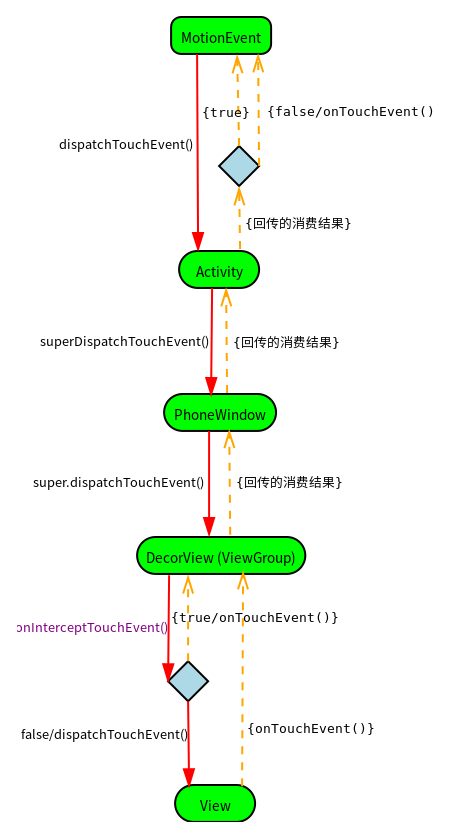
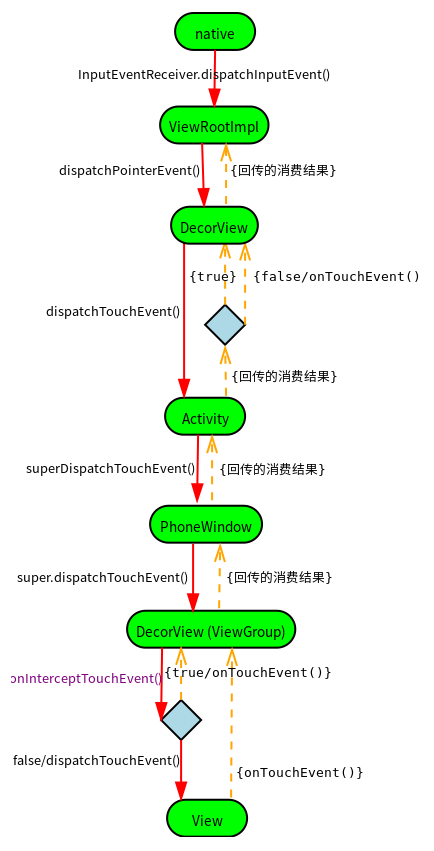
更新事件分发

Changed region(s): [[0.03, 0.0, 0.9585, 0.9952], [0.8088, 0.9019, 0.8387, 0.933], [0.7788, 0.8708, 0.8088, 0.9019]]

diff --git a/EventDispatch.md b/EventDispatch.md
@@ -213,6 +213,8 @@ public boolean onInterceptTouchEvent(MotionEvent ev) {...}
 拦截，顾名思义，截断事件的传递过程，当事件被拦截后，无法再向下分发，由于拦截的方法onInterceptTouchEvent()仅存于ViewGroup中，因此我们只会在ViewGroup中分析拦截过程。
 
 ### 3. Activity中的流程
+
+我们先从Activity的入口——dispatchTouchEvent()开始分析，至于这个入口又是谁在调用，我们调一下顺序，放在后面来介绍。（因为一般情况下，我们只需要研究从Activity这里开始的内容，至于事件的来源，涉及到native部分）
 ```java
 /**
  * 分发
@@ -502,7 +504,363 @@ View的情况比较简单，很容易理解：
 - 如果当前View可点击，就处理事件，并返回true作为消费结果。
 
 ---
-### 4. 事件分发整体流程
+### 6. Activity中事件来源
+
+Activity中事件来源，也就是谁调用了dispatchTouchEvent()，我们查看方法栈，发现在DecorView中：
+```java
+@Override
+public boolean dispatchTouchEvent(MotionEvent ev) {
+    // ...
+    final Window.Callback cb = mWindow.getCallback();
+    return cb != null && !mWindow.isDestroyed() && mFeatureId < 0
+            ? cb.dispatchTouchEvent(ev) : super.dispatchTouchEvent(ev);
+}
+```
+
+Activity这个类是实现了Window.Callback接口的，因此事件从这里分发到Activity的dispatchTouchEvent()。接下来我们先看看这个mWindow的来源，再去追踪事件的来源：
+```java
+void setWindow(PhoneWindow phoneWindow) {
+    mWindow = phoneWindow;
+    Context context = getContext();
+    if (context instanceof DecorContext) {
+        DecorContext decorContext = (DecorContext) context;
+        decorContext.setPhoneWindow(mWindow);
+    }
+}
+```
+
+而这个setWindow()有两处调用：
+
+![](https://raw.githubusercontent.com/universezy/TrilogyOfViewOnAndroid/master/image/EventDispatch.png)
+
+实际上，这两处最后都是走到同一个方法中：
+```java
+private void installDecor() {
+    // ...
+    if (mDecor == null) {
+        // 这里第一处调用
+        mDecor = generateDecor(-1);
+       // ...
+    } else {
+        // 这是第二处调用
+        mDecor.setWindow(this);
+    }
+}
+
+protected DecorView generateDecor(int featureId) {
+    // ...
+    return new DecorView(context, featureId, this, getAttributes());
+}
+
+/**
+ * 位于DecorView类中的构造方法
+ */
+DecorView(Context context, int featureId, PhoneWindow window,
+    WindowManager.LayoutParams params) {
+    // ...
+    setWindow(window);
+    // ...
+}
+```
+
+继续，追踪installDecor()的调用：
+
+![](https://raw.githubusercontent.com/universezy/TrilogyOfViewOnAndroid/master/image/installDecor.png)
+
+这个方法有好几处调用，我们发现了其中有熟悉的方法——installDecor()，这是我们在Activity的onCreate()中用来加载xml文件，即ViewGroup的方法，于是我们查看它在Activity中的调用：
+```java
+public void setContentView(@LayoutRes int layoutResID) {
+    getWindow().setContentView(layoutResID);
+    initWindowDecorActionBar();
+}
+```
+
+好了，到了这里我们不再继续往下找，因为后面涉及到Activity加载机制，为了不偏离本文主题，将在另外的文章中学习到。
+
+至此我们来理一理：
+
+(1) Activity在onCreate()中调用setContentView()，Window对象也调用setContentView()；
+(2) Window的setContentView()中，对DecorView实例化；
+(3) 当事件分发到DecorView时，DecorView通过构造方法传进来的Window对象的回调，将事件又分发到Activity的dispatchTouchEvent()；
+
+现在，我们开始分析，是谁将事件分发到DecorView的，由于dispatchTouchEvent()的调用者太多，我们很难下手，因此我们改变一下思路，放弃逆推，选择顺推试试。从入参MotionEvent下手，并且尽可能朝着我们熟悉的这些组件去推理。
+
+MotionEvent继承于InputEvent，根据依赖倒置原则，我们去追踪InputEvent在哪儿产生，发现一个叫InputEventReceiver的类，这个类中有一个方法：
+```java
+// Called from native code.
+@SuppressWarnings("unused")
+private void dispatchInputEvent(int seq, InputEvent event, int displayId) {
+    mSeqMap.put(event.getSequenceNumber(), seq);
+    onInputEvent(event, displayId);
+}
+```
+
+由native层调用，当输入事件产生并分发到这里后，调用onInputEvent()，我们再看这个onInputEvent()：
+
+![](https://raw.githubusercontent.com/universezy/TrilogyOfViewOnAndroid/master/image/onInputEvent.png)
+
+里面一处调用位于ViewRootImpl：WindowInputEventReceiver，然后到ViewRootImpl中看看：
+```java
+final class WindowInputEventReceiver extends InputEventReceiver {
+    @Override
+    public void onInputEvent(InputEvent event, int displayId) {
+        // ...
+        // 将输入事件入列
+        enqueueInputEvent(event, this, 0, true);
+    }
+}
+
+void enqueueInputEvent(InputEvent event,
+            InputEventReceiver receiver, int flags, boolean processImmediately) {
+    // ...
+    // 如果是立即执行
+    if (processImmediately) {
+        // 处理输入事件
+        doProcessInputEvents();
+    } else {
+        // 调度输入事件
+        scheduleProcessInputEvents();
+    }
+}
+
+void doProcessInputEvents() {
+    // ...
+    // 传递输入事件
+    deliverInputEvent(q);
+    // ...
+}
+
+private void deliverInputEvent(QueuedInputEvent q) {
+    // ...
+    InputStage stage;
+    if (q.shouldSendToSynthesizer()) {
+        stage = mSyntheticInputStage;
+    } else {
+        stage = q.shouldSkipIme() ? mFirstPostImeInputStage : mFirstInputStage;
+    }
+    // ...
+    if (stage != null) {
+        handleWindowFocusChanged();
+        // 传递有序的输入事件
+        stage.deliver(q);
+    } else {
+        finishInputEvent(q);
+    }
+}
+```
+
+此时我们得去追踪这个InputStage对象具体是哪一个实例，我们去查看这三个实例的初始化，发现是在同一个地方：
+```java
+public void setView(View view, WindowManager.LayoutParams attrs, View panelParentView) {
+    synchronized (this) {
+        if (mView == null) {
+            // ...
+            // Set up the input pipeline.
+            CharSequence counterSuffix = attrs.getTitle();
+            mSyntheticInputStage = new SyntheticInputStage();
+            InputStage viewPostImeStage = new ViewPostImeInputStage(mSyntheticInputStage);
+            InputStage nativePostImeStage = new NativePostImeInputStage(viewPostImeStage,
+                    "aq:native-post-ime:" + counterSuffix);
+            InputStage earlyPostImeStage = new EarlyPostImeInputStage(nativePostImeStage);
+            InputStage imeStage = new ImeInputStage(earlyPostImeStage,
+                    "aq:ime:" + counterSuffix);
+            InputStage viewPreImeStage = new ViewPreImeInputStage(imeStage);
+            InputStage nativePreImeStage = new NativePreImeInputStage(viewPreImeStage,
+                    "aq:native-pre-ime:" + counterSuffix);
+
+            mFirstInputStage = nativePreImeStage;
+            mFirstPostImeInputStage = earlyPostImeStage;
+        }
+    }
+}
+```
+
+这是什么操作？不明觉厉，这几个类都继承于InputStage，那就看看InputStage里面：
+```java
+/**
+ * 用于实现处理输入事件的责任链阶段的基类。
+ * 事件通过deliver()传递到该阶段，在此，可选择完成事件或者传递到下个阶段。
+ */
+abstract class InputStage {
+    private final InputStage mNext;
+
+    protected static final int FORWARD = 0;
+    protected static final int FINISH_HANDLED = 1;
+    protected static final int FINISH_NOT_HANDLED = 2;
+
+    /**
+     * 创建一个输入事件阶段
+     * @param next 下个阶段
+     */
+    public InputStage(InputStage next) {
+        mNext = next;
+    }
+
+    /**
+     * 传递一个事件来处理
+     */
+    public final void deliver(QueuedInputEvent q) {
+        if ((q.mFlags & QueuedInputEvent.FLAG_FINISHED) != 0) {
+            forward(q);
+        } else if (shouldDropInputEvent(q)) {
+            finish(q, false);
+        } else {
+            apply(q, onProcess(q));
+        }
+    }
+
+    /**
+     * 将事件标记为完成了，并传递到下个阶段
+     */
+    protected void finish(QueuedInputEvent q, boolean handled) {
+        q.mFlags |= QueuedInputEvent.FLAG_FINISHED;
+        if (handled) {
+            q.mFlags |= QueuedInputEvent.FLAG_FINISHED_HANDLED;
+        }
+        forward(q);
+    }
+
+    /**
+     * 传递事件到下个阶段
+     */
+    protected void forward(QueuedInputEvent q) {
+        onDeliverToNext(q);
+    }
+
+    /**
+     * 将onProcess()的结果码应用于指定事件
+     */
+    protected void apply(QueuedInputEvent q, int result) {
+        if (result == FORWARD) {
+            forward(q);
+        } else if (result == FINISH_HANDLED) {
+            finish(q, true);
+        } else if (result == FINISH_NOT_HANDLED) {
+            finish(q, false);
+        } else {
+            throw new IllegalArgumentException("Invalid result: " + result);
+        }
+    }
+
+    /**
+     * 处理事件时调用
+     * @return 事件处理结果
+     */
+    protected int onProcess(QueuedInputEvent q) {
+        return FORWARD;
+    }
+
+    /**
+     * 传递事件到下个阶段时调用
+     */
+    protected void onDeliverToNext(QueuedInputEvent q) {
+        if (DEBUG_INPUT_STAGES) {
+            Log.v(mTag, "Done with " + getClass().getSimpleName() + ". " + q);
+        }
+        if (mNext != null) {
+            mNext.deliver(q);
+        } else {
+            finishInputEvent(q);
+        }
+    }
+    // ...
+}
+```
+
+大致意思就是，有一条责任链，当事件传递到链首，开始处理或向后传递。
+
+结合ViewRootImpl中的责任链构造过程，我们去查看跟View有关的ViewPostImeInputStage，假设此时事件传递到这个阶段，由于它的内部没有重写deliver()，而是重写了onProcess()，那么其调用deliver()的情况是：
+```java
+/**
+ * Delivers post-ime input events to the view hierarchy.
+ */
+final class ViewPostImeInputStage extends InputStage {
+    // 继承父类的方法
+    public final void deliver(QueuedInputEvent q) {
+        if ((q.mFlags & QueuedInputEvent.FLAG_FINISHED) != 0) {
+            forward(q);
+        } else if (shouldDropInputEvent(q)) {
+            finish(q, false);
+        } else {
+            apply(q, onProcess(q));
+        }
+    }
+
+    @Override
+    protected int onProcess(QueuedInputEvent q) {
+        if (q.mEvent instanceof KeyEvent) {
+            return processKeyEvent(q);
+        } else {
+            final int source = q.mEvent.getSource();
+            if ((source & InputDevice.SOURCE_CLASS_POINTER) != 0) {
+                return processPointerEvent(q);
+            } else if ((source & InputDevice.SOURCE_CLASS_TRACKBALL) != 0) {
+                return processTrackballEvent(q);
+            } else {
+                return processGenericMotionEvent(q);
+            }
+        }
+    }
+}
+```
+
+onProcess()中的四个process方法中，观察processPointerEvent()发现其中出现了View事件类型：
+```java
+private int processPointerEvent(QueuedInputEvent q) {
+    // ...
+    boolean handled = mView.dispatchPointerEvent(event);
+    int action = event.getActionMasked();
+    if (!SCROLL_BOOST_SS_ENABLE) {
+        if (action == MotionEvent.ACTION_MOVE) {
+            mHaveMoveEvent = true;
+        } else if (action == MotionEvent.ACTION_UP) {
+            mHaveMoveEvent = false;
+            mIsPerfLockAcquired = false;
+        }
+    }
+    // ...
+}
+```
+
+而另一个更关键的信息是mView.dispatchPointerEvent(event)，查看其具体实现：
+```java
+/**
+ * Dispatch a pointer event.
+ * <p>
+ * Dispatches touch related pointer events to {@link #onTouchEvent(MotionEvent)} and all
+ * other events to {@link #onGenericMotionEvent(MotionEvent)}.  This separation of concerns
+ * reinforces the invariant that {@link #onTouchEvent(MotionEvent)} is really about touches
+ * and should not be expected to handle other pointing device features.
+ * </p>
+ *
+ * @param event The motion event to be dispatched.
+ * @return True if the event was handled by the view, false otherwise.
+ * @hide
+ */
+public final boolean dispatchPointerEvent(MotionEvent event) {
+    if (event.isTouchEvent()) {
+        return dispatchTouchEvent(event);
+    } else {
+        return dispatchGenericMotionEvent(event);
+    }
+}
+```
+
+- 分发指针事件。
+- 触摸相关的事件分发给onTouchEvent()。
+- 其他事件分发给onGenericMotionEvent()。
+
+我们知道了ViewRootImpl中的这个mView实例其实是DecorView对象，DecorView中正好对dispatchTouchEvent()进行了重写，那就是这一节最开始我们看到的具体实现。整理下这部分整个流程：
+
+- native层将事件传递到ViewRootImpl中。
+- ViewRootImpl将事件分发到DecorView中。
+- DecorView通过Window.Callback将事件分发到Activity中。
+- 然后再接上前面从Activity到ViewGroup再到View的流程。
+
+至此，关于View中触摸事件的来龙去脉，我们已经全部梳理完成。
+
+---
+### 7. 事件分发整体流程
 
 ![](https://raw.githubusercontent.com/universezy/TrilogyOfViewOnAndroid/master/image/EventDispatch.png)
 
@@ -511,3 +869,4 @@ View的情况比较简单，很容易理解：
 
 - [Android事件分发机制详解：史上最全面、最易懂](https://www.jianshu.com/p/38015afcdb58)
 - [一文读懂Android View事件分发机制](https://www.jianshu.com/p/238d1b753e64)
+- [Activity dispatchTouchEvent事件分发的源头](https://blog.csdn.net/conan9715/article/details/78529055)
